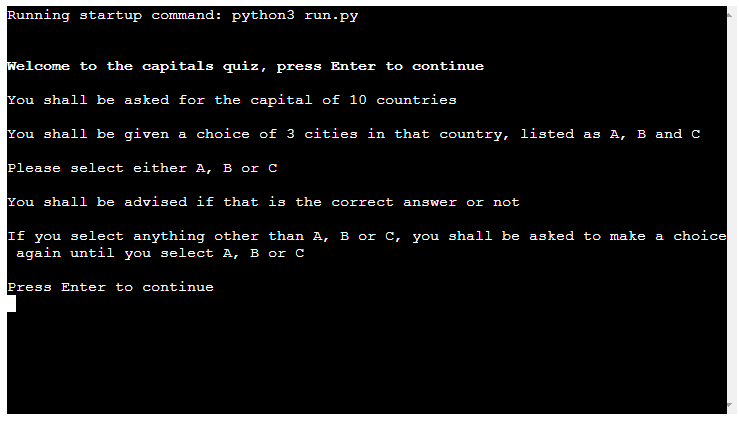
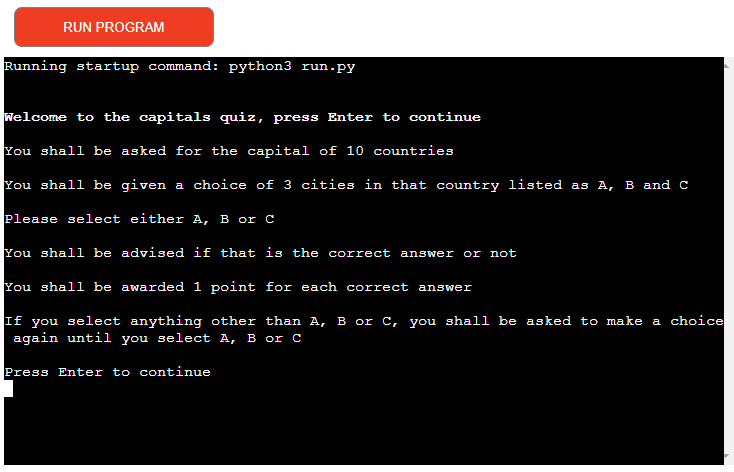
Update REAME pics

Changed region(s): [[0.0, 0.0, 0.9891, 1.0]]

diff --git a/README.md b/README.md
@@ -8,7 +8,7 @@ It is a multiple choice game where the user has to decide between a choice of ci
 ![Website displayed on multiple screens](assets/imagesforreadme/screenshots.PNG)
 
 ## How to play 
-The player is asked what the capital is of a total of 10 countries across the course of the game and are given a selection of 3 potential cities in that country. The 3 cities listed as A, B and C. One of the answers shall be the capital and therefore the correct answer while the other two options shall be incorrect answers. When the user answers correctly, they are awarded one point for each correct answer thus being able to obtain a maximum of 10 points. 
+The player is asked what the capital is of a total of 10 countries across the course of the game and are given a selection of 3 potential cities in that country. The 3 cities listed as A, B and C. One of the answers shall be the capital and therefore the correct answer while the other two options shall be incorrect answers. When the player answers correctly, they are awarded 1 point for each correct answer thus being able to obtain a maximum of 10 points. 
 
 Features: 
 
